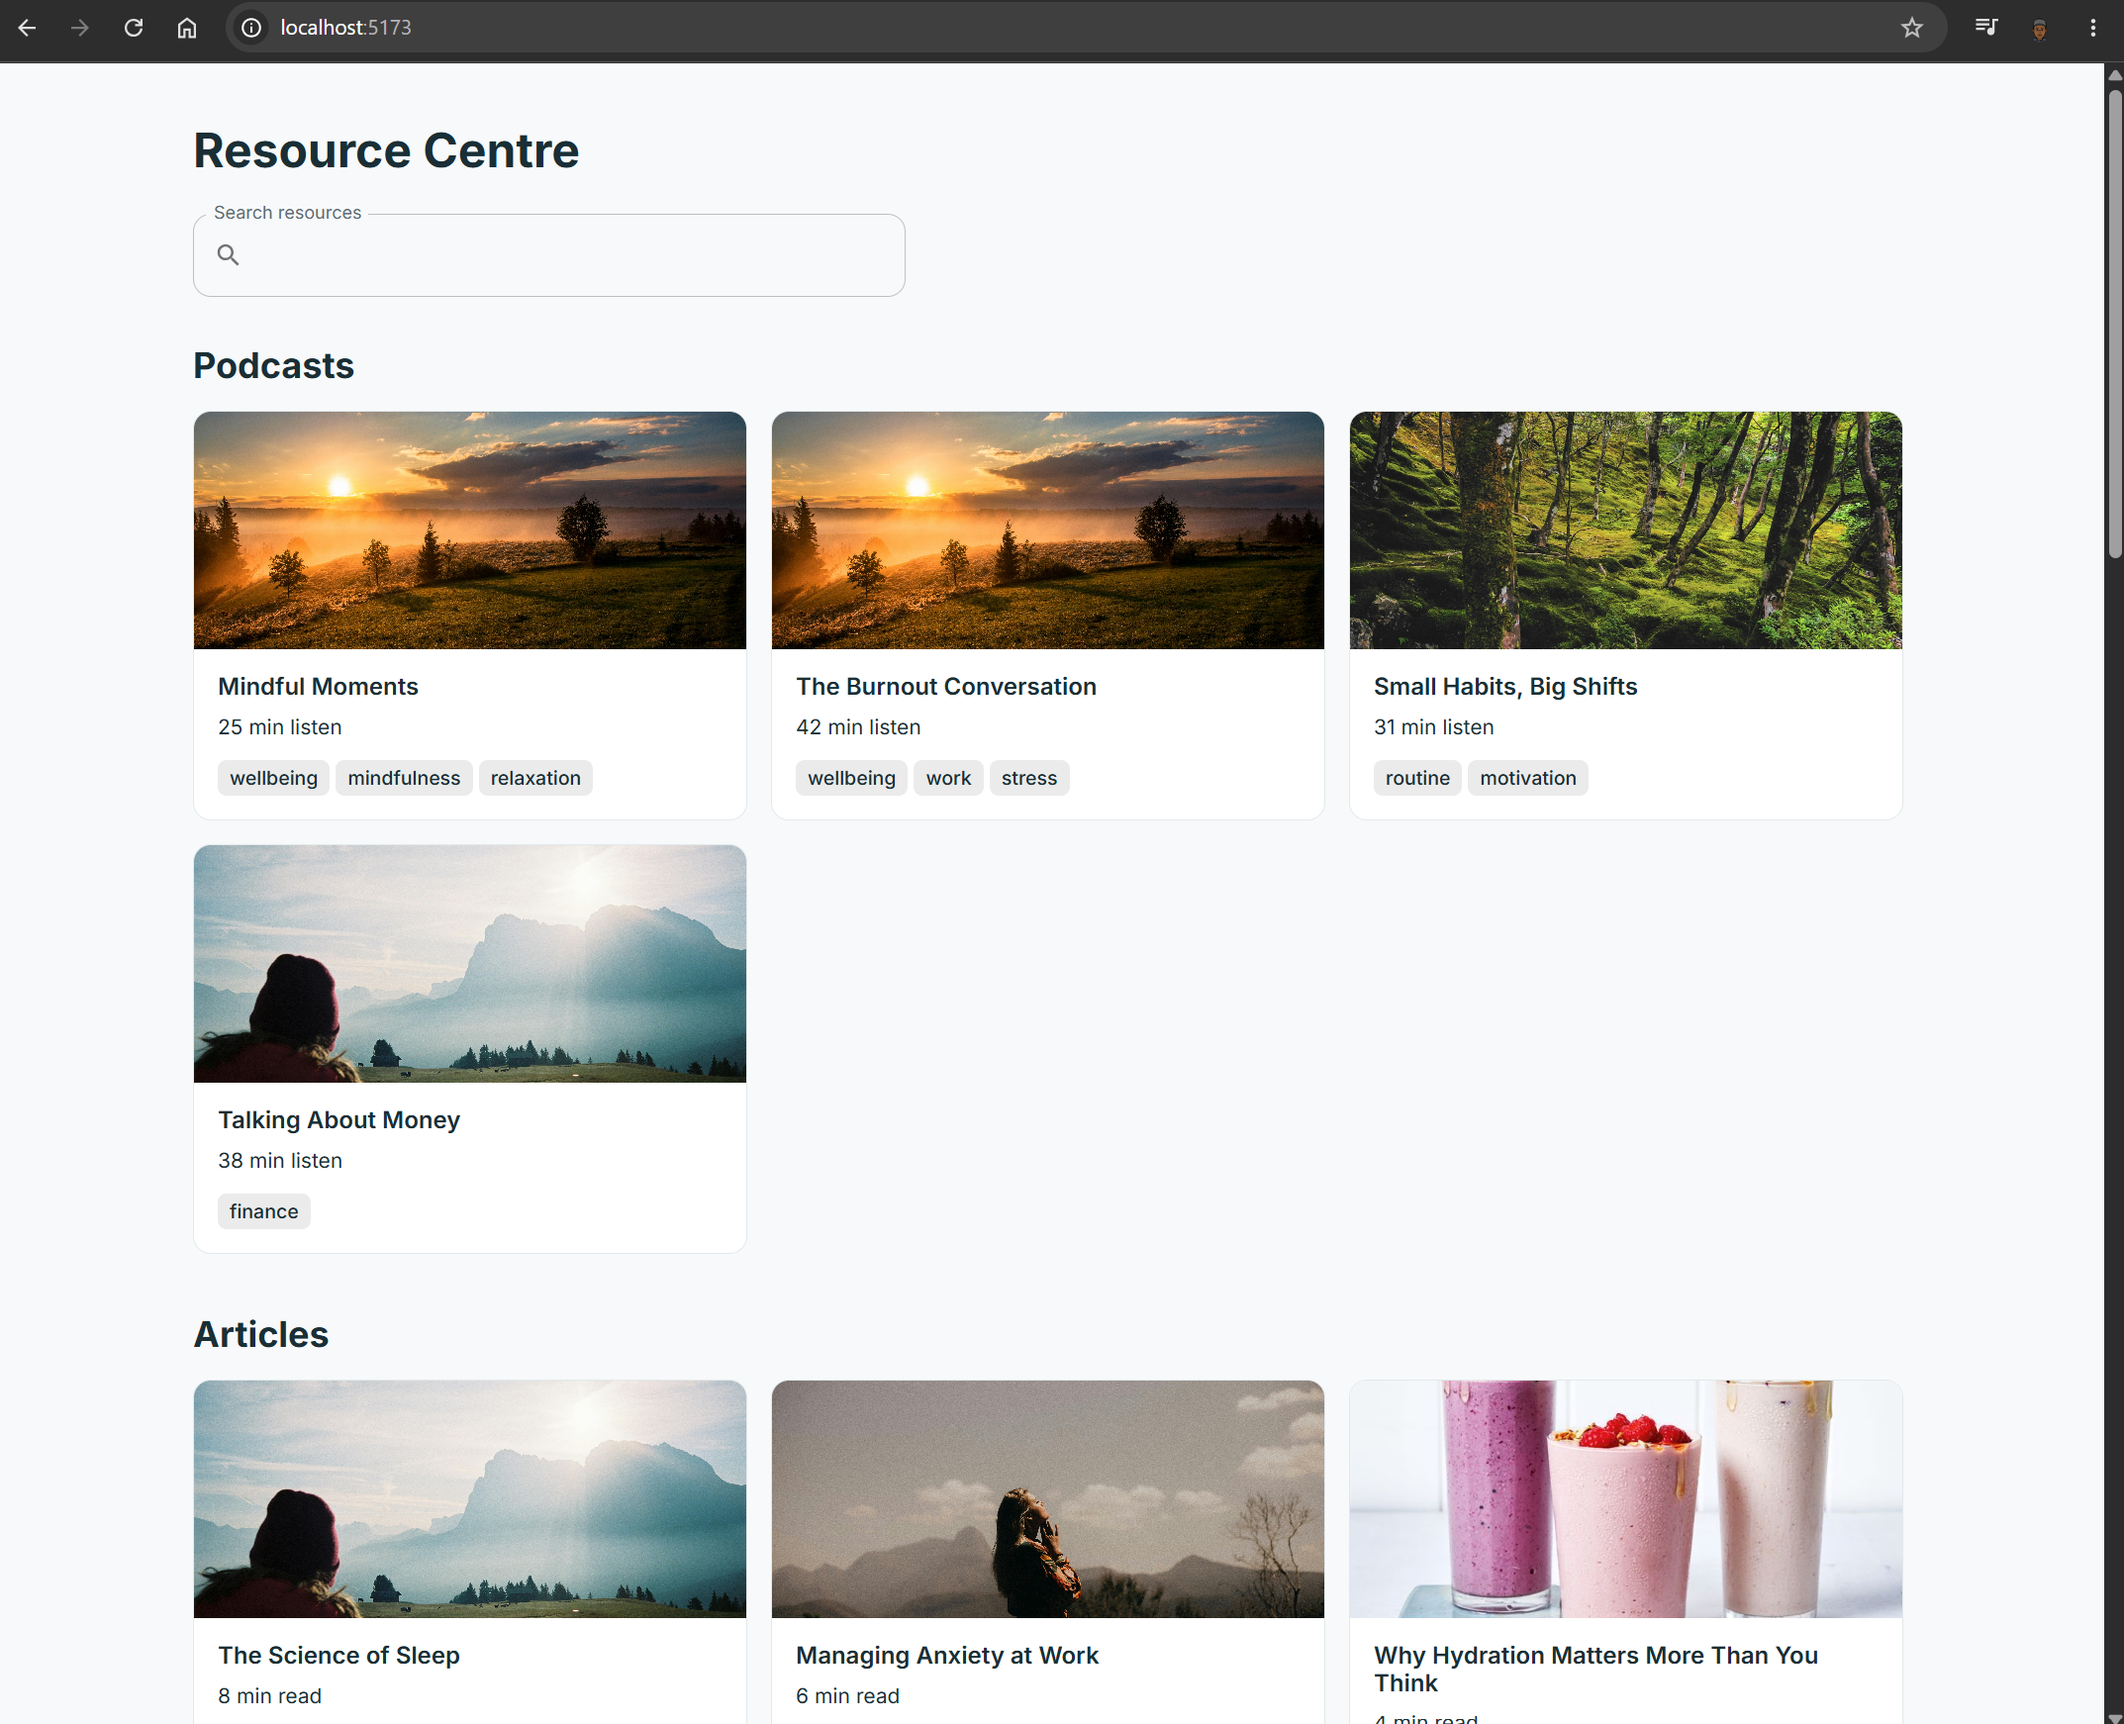
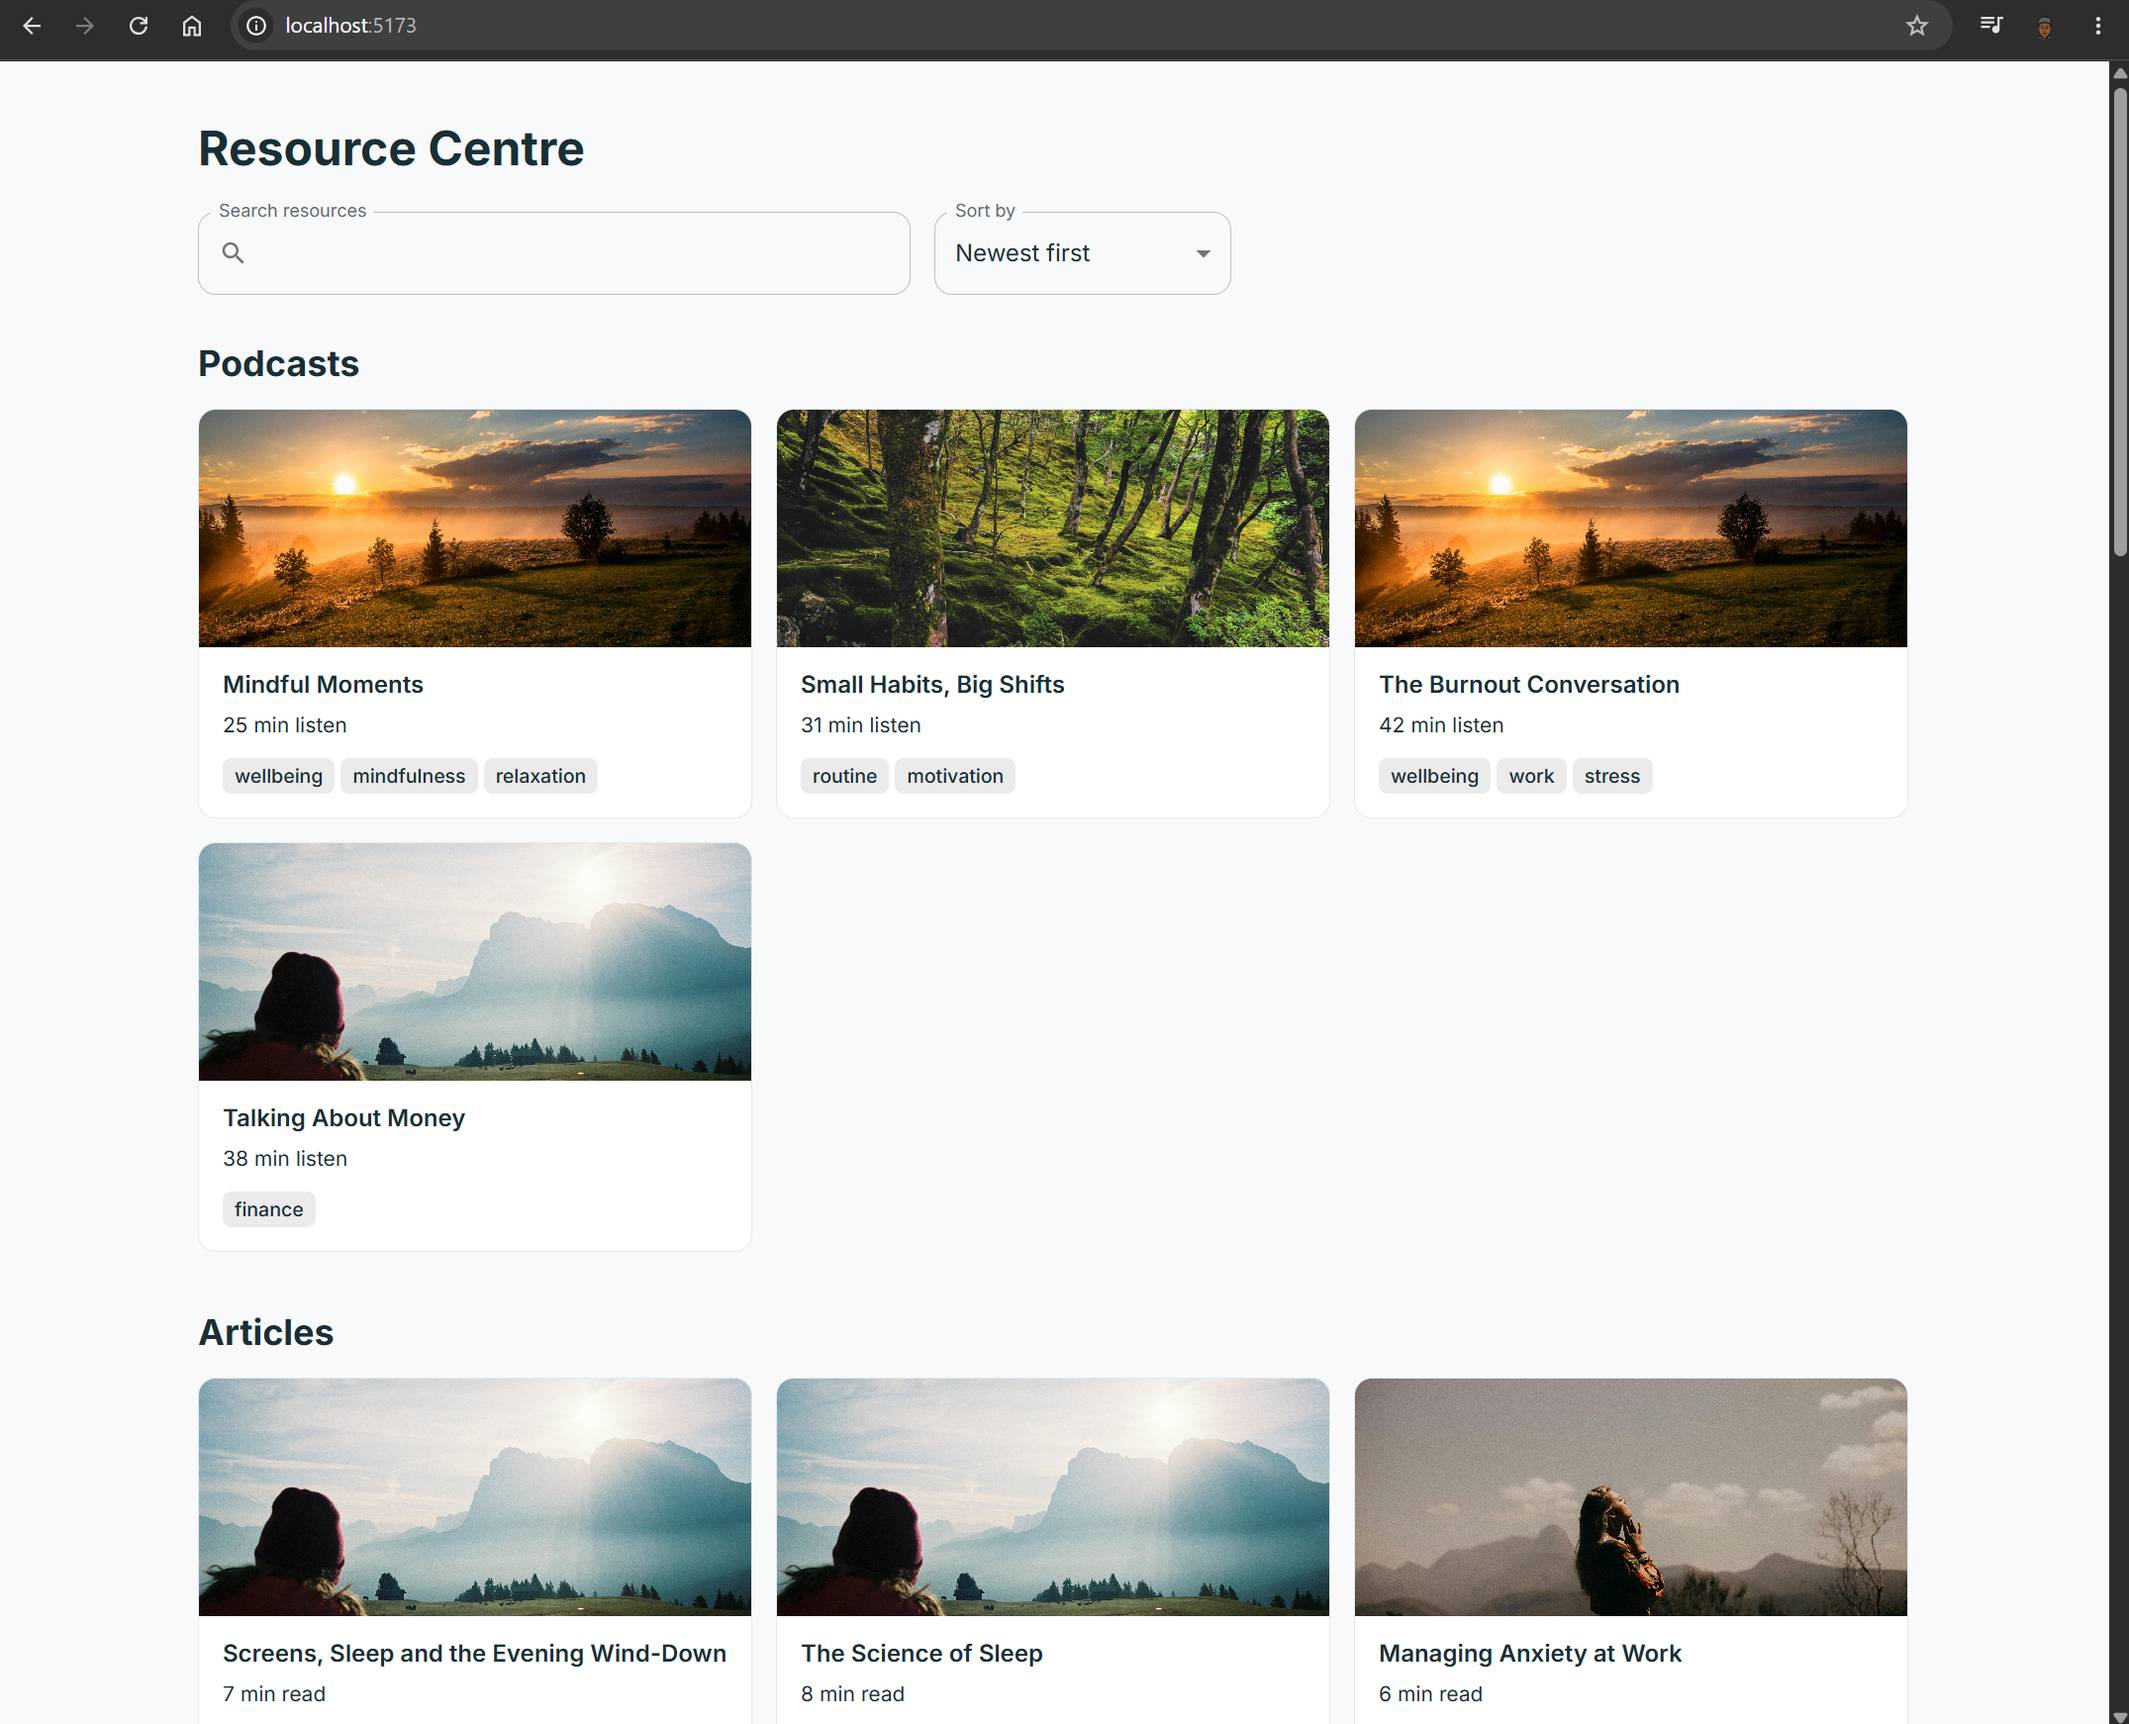
docs: document sorting and update test count

diff --git a/README.md b/README.md
@@ -19,7 +19,7 @@ npm test           # watch mode
 npx tsc --noEmit   # typecheck
 ```
 
-43 tests across 10 files.
+53 tests across 12 files.
 
 ## Stack
 
@@ -45,11 +45,13 @@ Raw JSON is mapped to a domain model at a single boundary (`mapResource`). `RawR
 - **Cards show at most 3 tags; the dialog shows all.** The 3-tag cap is a card layout constraint, not a property of the data.
 - **Duration labels vary by category** - "25 min listen", "8 min read", "10 min workout", driven by a `Record<Category, string>`, so adding a category is a compile error until the label is supplied.
 - **Accessibility**: sections are labelled regions, headings nest `h1` → `h2` → `h3`, thumbnails are marked decorative since the title sits beside them, and the no-results message is a live region.
+- **Sorting applies within categories, not across them.** Category order is fixed by design, so the sort control reorders cards inside each section rather than reordering the sections themselves.
+- **Filtering, then sorting, then grouping.** Sorting before filtering would order records that get discarded; grouping consumes an already-ordered flat list, so `groupByCategory` needed no changes to support sorting.
 
 ## Given more time
 
-- **Sort by date or title.** 
 - **A real data layer.** Currently a synchronous import. I would move to TanStack Query behind the existing mapper, which would also surface loading and error states the UI does not yet have.
+- **Remove the one remaining type assertion.** MUI's `Select` types its change value as `string`, so `SortControl` casts to `SortOption`. Safe in practice, but a type predicate would prove it rather than assert it.
 - **Debounced filtering.** Filtering runs on every keystroke. Fine for 24 records, wasteful against an API.
 - **URL-synced state.** The query and selected resource are component state, so a filtered view can't be shared or survive a refresh. `?q=sleep` would fix that.
 - **Timezone handling.** `new Date('2025-07-10')` parses as UTC midnight. Harmless in the UK; in a negative-offset timezone the displayed date could be a day early. A date-only type or explicit local construction would be correct.
